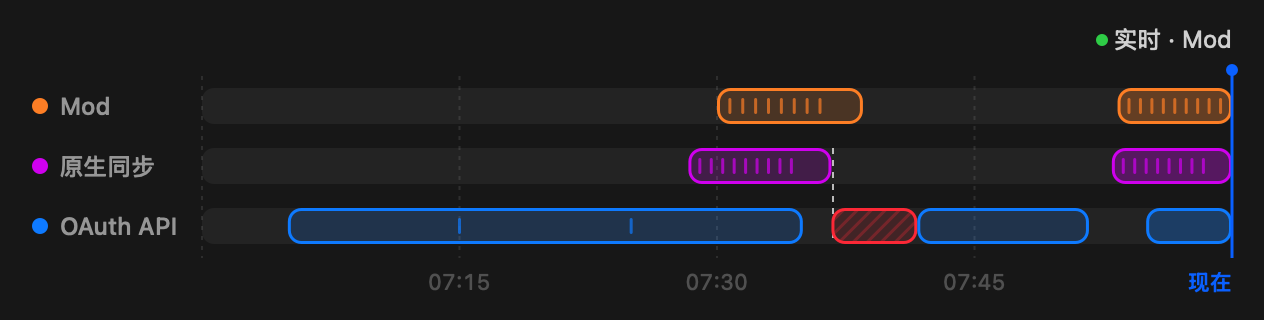
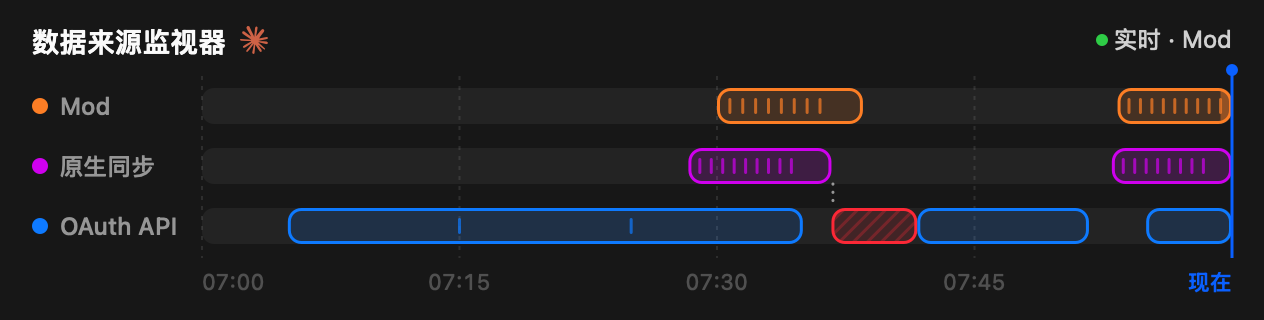
[BB-619] 标题改为数据来源监视器并加 Claude 图标；左端标注截断时间

diff --git a/Sources/UI/Quota/ClaudeSourceTimelineView.swift b/Sources/UI/Quota/ClaudeSourceTimelineView.swift
@@ -272,8 +272,9 @@ final class ClaudeSourceTimelineView: NSView {
     private let timeZone: TimeZone
     private let now: () -> Date
     let statusSlot: StatusSlotView
-    /// The board's heading, 「时间来源分布图」.
+    /// The board's heading, 「数据来源监视器」.
     let titleLabel = NSTextField(labelWithString: tr(.keyClaudeTimelineTitle))
+    private let titleIcon = DashboardRefreshPage.agentIconStrip(["Claude"])
     private let canvas = TimelineCanvas()
     private let liftHost = TimelineFlippedView()
     private let liftLayer = CALayer()
@@ -342,12 +343,15 @@ final class ClaudeSourceTimelineView: NSView {
         liftHost.layer?.addSublayer(liftLayer)
         addSubview(liftHost)
 
-        titleLabel.font = .systemFont(ofSize: 13, weight: .semibold)
+        // Same as a settings row title, followed by the Claude mark like those rows.
+        titleLabel.font = .systemFont(ofSize: 14, weight: .semibold)
         titleLabel.textColor = .labelColor
         titleLabel.lineBreakMode = .byTruncatingTail
         titleLabel.translatesAutoresizingMaskIntoConstraints = false
         titleLabel.setContentCompressionResistancePriority(.defaultLow, for: .horizontal)
         addSubview(titleLabel)
+        titleIcon.translatesAutoresizingMaskIntoConstraints = false
+        addSubview(titleIcon)
         statusSlot.translatesAutoresizingMaskIntoConstraints = false
         addSubview(statusSlot)
         NSLayoutConstraint.activate([
@@ -355,7 +359,9 @@ final class ClaudeSourceTimelineView: NSView {
             statusSlot.topAnchor.constraint(equalTo: topAnchor),
             titleLabel.leadingAnchor.constraint(equalTo: leadingAnchor),
             titleLabel.centerYAnchor.constraint(equalTo: statusSlot.centerYAnchor),
-            titleLabel.trailingAnchor.constraint(lessThanOrEqualTo: statusSlot.leadingAnchor, constant: -8)
+            titleIcon.leadingAnchor.constraint(equalTo: titleLabel.trailingAnchor, constant: SettingsRowView.titleAccessorySpacing),
+            titleIcon.centerYAnchor.constraint(equalTo: titleLabel.centerYAnchor),
+            titleIcon.trailingAnchor.constraint(lessThanOrEqualTo: statusSlot.leadingAnchor, constant: -8)
         ])
         setAccessibilityElement(true)
         setAccessibilityRole(.image)
@@ -479,6 +485,10 @@ final class ClaudeSourceTimelineView: NSView {
         formatter.locale = Locale(identifier: "en_US_POSIX")
         formatter.timeZone = timeZone
         formatter.dateFormat = "HH:mm"
+        // The left edge is where history is cut off; label it so the clipped marks have a time.
+        let startText = formatter.string(from: layout.start) as NSString
+        let startEndX = layout.plot.minX + startText.size(withAttributes: axis).width
+        startText.draw(at: NSPoint(x: layout.plot.minX, y: axisY), withAttributes: axis)
         for tick in layout.ticks {
             let guide = NSBezierPath()
             guide.move(to: NSPoint(x: tick.x, y: layout.plot.minY))
@@ -490,7 +500,7 @@ final class ClaudeSourceTimelineView: NSView {
             let text = formatter.string(from: tick.date) as NSString
             let width = text.size(withAttributes: axis).width
             let minX = tick.x - width / 2
-            guard minX >= layout.plot.minX, minX + width + 8 <= nowLabelX else { continue }
+            guard minX >= startEndX + 8, minX + width + 8 <= nowLabelX else { continue }
             text.draw(at: NSPoint(x: minX, y: axisY), withAttributes: axis)
         }
         nowText.draw(at: NSPoint(x: nowLabelX, y: axisY), withAttributes: nowAttributes)
